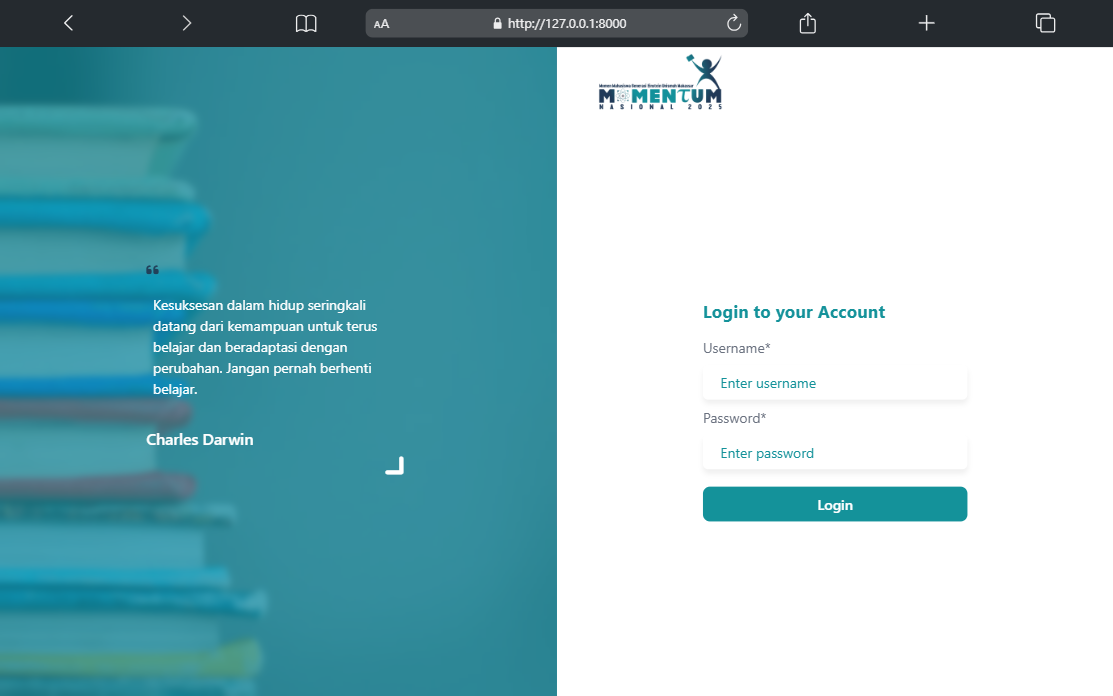
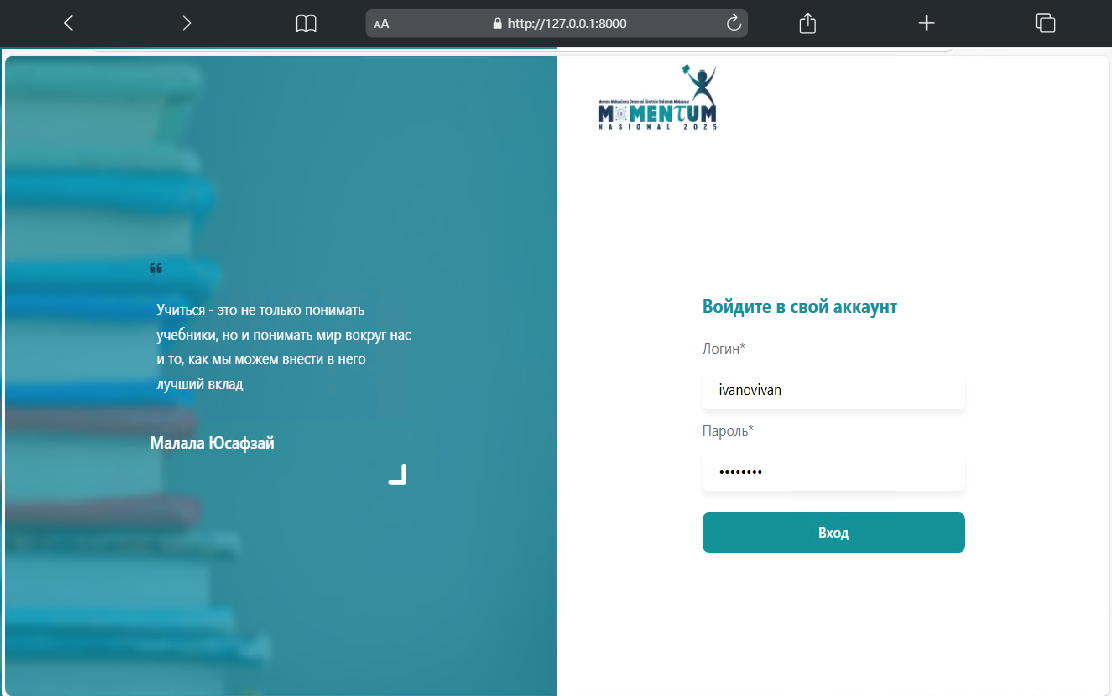
Completed the translation of the admin panel and added seed

diff --git a/database/seeders/SchoolSeeder.php b/database/seeders/SchoolSeeder.php
@@ -14,31 +14,31 @@ class SchoolSeeder extends Seeder
     public function run(): void
     {
         $schools = [
-            "Greenwood High School",
-            "Maple Leaf Academy",
-            "Riverdale Secondary",
-            "Hillside School",
-            "Sunnydale Institute",
-            "Springfield Elementary",
-            "Cedarwood High",
-            "Lakeside College",
-            "Mountainview Academy",
-            "Ocean Breeze High",
-            "Pinecrest School",
-            "Silver Oaks Secondary",
-            "Golden Valley School",
-            "Redwood High",
-            "Blue Ridge Academy",
-            "Meadowbrook School",
-            "Windy Hill High",
-            "Crystal Lake Institute",
-            "Bright Future Academy",
-            "Starlight High",
-            "Sunrise Elementary",
-            "Evergreen Academy",
-            "Whispering Pines School",
-            "Northern Lights High",
-            "Harmony Secondary"
+            'Средняя школа Гринвуд',
+            'Академия Кленового Листа',
+            'Ривердейлская средняя школа',
+            'Школа Хиллсайд',
+            'Саннидейлский институт',
+            'Спрингфилдская начальная школа',
+            'Кедровая школа',
+            'Лейксайдский колледж',
+            'Академия Маунтинвью',
+            'Ocean Breeze High',
+            'Школа Пайнкрест',
+            'Серебряные дубы средняя школа',
+            'Golden Valley School',
+            'Редвуд Хай',
+            'Академия Блю Ридж',
+            'Meadowbrook School',
+            'Windy Hill High',
+            'Crystal Lake Institute',
+            'Академия светлого будущего',
+            'Старлайт Хай',
+            'Sunrise Elementary',
+            'Эвергрин Академия',
+            'Whispering Pines School',
+            'Northern Lights High',
+            'Средняя школа Гармонии'
         ];
         foreach ($schools as $school) {
             School::create([

diff --git a/database/seeders/DatabaseSeeder.php b/database/seeders/DatabaseSeeder.php
@@ -20,20 +20,20 @@ class DatabaseSeeder extends Seeder
         //     'name' => 'Test User',
         //     'email' => 'test@example.com',
         // ]);
-        // User::create([
-        //     "name" => "momentum24",
-        //     "username" => "momentum24",
-        //     "email" => "momentum24@gmail.com",
-        //     "password" => Hash::make("momentum2024password"),
-        //     "school_category_id" => null,
-        // ]);
-        // User::create([
-        //     "name" => "momentumsmp",
-        //     "username" => "momentumsmp",
-        //     "email" => "momentumsmp@gmail.com",
-        //     "password" => Hash::make("password"),
-        //     "school_category_id" => "1",
-        // ]);
+        User::create([
+            "name" => "momentum24",
+            "username" => "momentum24",
+            "email" => "momentum24@gmail.com",
+            "password" => Hash::make("momentum2024password"),
+           "school_category_id" => null,
+         ]);
+        User::create([
+             "name" => "momentumsmp",
+             "username" => "momentumsmp",
+             "email" => "momentumsmp@gmail.com",
+             "password" => Hash::make("password"),
+             "school_category_id" => "1",
+         ]);
         // User::create([
         //     "name" => "momentumsma",
         //     "username" => "momentumsma",
@@ -42,8 +42,8 @@ class DatabaseSeeder extends Seeder
         //     "school_category_id" => "2",
         // ]);
         $this->call(SchoolCategorySeeder::class);
-        // $this->call(SchoolSeeder::class);
+        $this->call(SchoolSeeder::class);
         $this->call(QuizTypeSeeder::class);
-        // $this->call(StudentSeeder::class);
+        $this->call(StudentSeeder::class);
     }
 }

diff --git a/app/Filament/Resources/QuizResource.php b/app/Filament/Resources/QuizResource.php
@@ -23,11 +23,11 @@ use Illuminate\Database\Eloquent\SoftDeletingScope;
 
 class QuizResource extends Resource
 {
-    protected static ?string $label = "Тесты";
+    protected static ?string $label = "Тест";
     protected static ?string $pluralLabel = "Тесты";
     protected static ?string $navigationLabel = "Тесты";
     protected static ?string $model = Quiz::class;
-    protected static ?string $navigationGroup = "Quiz";
+    protected static ?string $navigationGroup = "Тесты";
     protected static ?int $navigationSort = 1;
     protected static ?string $navigationIcon = 'heroicon-o-pencil-square';
 
@@ -63,7 +63,7 @@ class QuizResource extends Resource
                         ->placeholder("Выберите тип теста")
                         ->required()
                         ->disabledOn("edit"),
-                    Fieldset::make("Waktu Ujian")->schema([
+                    Fieldset::make("Время экзамена")->schema([
                         DateTimePicker::make("start_time")
                             ->label("Время начала")
                             ->required()

diff --git a/app/Filament/Widgets/StatsOverview.php b/app/Filament/Widgets/StatsOverview.php
@@ -19,6 +19,7 @@ class StatsOverview extends BaseWidget
                 }
                 return Quiz::count();
             })
+                ->label("Тесты")
                 ->description("Всего доступных тестов")
                 ->descriptionIcon("heroicon-o-pencil-square")
                 ->color("warning")
@@ -31,6 +32,7 @@ class StatsOverview extends BaseWidget
                 }
                 return Student::count();
             })
+                ->label("Студенты")
                 ->description("Всего студентов")
                 ->descriptionIcon("heroicon-o-users")
                 ->color("success")
@@ -43,6 +45,7 @@ class StatsOverview extends BaseWidget
                 }
                 return Question::count();
             })
+                ->label("Вопросы")
                 ->description("Всего вопросов")
                 ->descriptionIcon("heroicon-o-question-mark-circle")
                 ->color("danger")

diff --git a/app/Filament/Resources/AdminResource.php b/app/Filament/Resources/AdminResource.php
@@ -24,11 +24,11 @@ class AdminResource extends Resource
     {
         return auth()->user()->school_category_id == null;
     }
-    protected static ?string $label = "Admin";
-    protected static ?string $pluralLabel = "Admin";
-    protected static ?string $navigationLabel = "Admin";
+    protected static ?string $label = "Пользователи";
+    protected static ?string $pluralLabel = "Пользователи";
+    protected static ?string $navigationLabel = "Пользователи";
     protected static ?string $model = User::class;
-    protected static ?string $navigationGroup = "Data";
+    protected static ?string $navigationGroup = "Данные";
     protected static ?int $navigationSort = 3;
     protected static ?string $navigationIcon = 'heroicon-o-user-circle';
 

diff --git a/app/Filament/Resources/SchoolResource.php b/app/Filament/Resources/SchoolResource.php
@@ -17,11 +17,11 @@ use Illuminate\Database\Eloquent\Builder;
 
 class SchoolResource extends Resource
 {
-    protected static ?string $label = "Школа";
-    protected static ?string $pluralLabel = "Школа";
-    protected static ?string $navigationLabel = "Школа";
+    protected static ?string $label = "Школу";
+    protected static ?string $pluralLabel = "Школы";
+    protected static ?string $navigationLabel = "Школы";
     protected static ?string $model = School::class;
-    protected static ?string $navigationGroup = "Data";
+    protected static ?string $navigationGroup = "Данные";
     protected static ?int $navigationSort = 1;
     protected static ?string $navigationIcon = 'heroicon-o-building-office';
 

diff --git a/app/Filament/Resources/StudentResource.php b/app/Filament/Resources/StudentResource.php
@@ -17,11 +17,11 @@ use Illuminate\Database\Eloquent\Builder;
 
 class StudentResource extends Resource
 {
-    protected static ?string $label = "Студенты";
+   protected static ?string $label = "Студента";
     protected static ?string $pluralLabel = "Студенты";
     protected static ?string $navigationLabel = "Студенты";
     protected static ?string $model = Student::class;
-    protected static ?string $navigationGroup = "Data";
+    protected static ?string $navigationGroup = "Данные";
     protected static ?int $navigationSort = 2;
     protected static ?string $navigationIcon = 'heroicon-o-users';
 

diff --git a/app/Filament/Resources/QuizRecapResource.php b/app/Filament/Resources/QuizRecapResource.php
@@ -26,7 +26,8 @@ class QuizRecapResource extends Resource
     protected static ?string $model = Quiz::class;
     protected static ?string $label = "Обзор";
     protected static ?string $navigationLabel = "Обзор";
-    protected static ?string $navigationGroup = "Quiz";
+    protected static ?string $pluralLabel = "Обзоры";
+    protected static ?string $navigationGroup = "Тесты";
     protected static ?int $navigationSort = 2;
     protected static ?string $navigationIcon = 'heroicon-o-book-open';
     public static function canCreate(): bool

diff --git a/app/Filament/Resources/QuizMonitoringResource.php b/app/Filament/Resources/QuizMonitoringResource.php
@@ -20,7 +20,8 @@ class QuizMonitoringResource extends Resource
     protected static ?string $model = Quiz::class;
     protected static ?string $label = "Проверка";
     protected static ?string $navigationLabel = "Проверка";
-    protected static ?string $navigationGroup = "Quiz";
+    protected static ?string $pluralLabel = "Проверки";
+    protected static ?string $navigationGroup = "Тесты";
     protected static ?int $navigationSort = 3;
     protected static ?string $navigationIcon = 'heroicon-o-video-camera';
 

diff --git a/database/seeders/StudentSeeder.php b/database/seeders/StudentSeeder.php
@@ -15,11 +15,11 @@ class StudentSeeder extends Seeder
     {
         $students = [
             [
-                "username" => "ikbaldjaya",
+                "username" => "Ivanov",
                 "password" => "password",
-                "name" => "Ikbal Djaya",
+                "name" => "Ivan Ivanov",
                 "gender" => "male",
-                "school_id" => "1",
+                "school_id" => "3",
             ],
         ];
         foreach ($students as $student) {

diff --git a/app/Filament/Pages/Dashboard.php b/app/Filament/Pages/Dashboard.php
@@ -8,6 +8,6 @@ use Filament\Widgets\StatsOverviewWidget\Stat;
 
 class Dashboard extends \Filament\Pages\Dashboard
 {
-    protected static ?string $title = 'Home';
+    protected static ?string $title = 'Главная';
     
 }

diff --git a/README.md b/README.md
@@ -101,11 +101,15 @@ Momentum - это сайт компьютерных тестов, разрабо
     ```bash
     php artisan migrate --seed
     ```
-8.  Запустите локальный сервер:
+8.  Сгенерируйте ключ шифрования приложения с помощью команды:
+    ```bash
+    php artisan key:generate
+    ```
+9.  Запустите локальный сервер:
     ```bash
     php artisan serve
     ```
-9.  Запустите сервер WebSocket для работы с функциями реального времени:
+10. Запустите сервер WebSocket для работы с функциями реального времени:
     ```bash
     php artisan websockets:serve
     ```
@@ -115,8 +119,23 @@ Momentum - это сайт компьютерных тестов, разрабо
 ## Использование 💻
 
 - **Admin Login:** Доступ к данным и функциям управления викторинами через панель администратора.
+
+| Login       | Password          |
+|-------------|-------------------|  
+| momentum24  | momentum2024password|
+
+
 - **Вход администратора школы:** Доступ к ограниченным функциям в соответствии с правами управления школой.
-- **Вход ученика:** Проходите экзамены с кодами тестов и просматривайте историю экзаменов на панели ученика.
+
+| Login       | Password          |
+|-------------|-------------------|  
+| momentumsmp  | password |
+
+ - **Вход ученика:** Проходите экзамены с кодами тестов и просматривайте историю экзаменов на панели ученика.
+
+| Login       | Password          |
+|-------------|-------------------|  
+| ivanovivan  | password|
 
 ---
 
